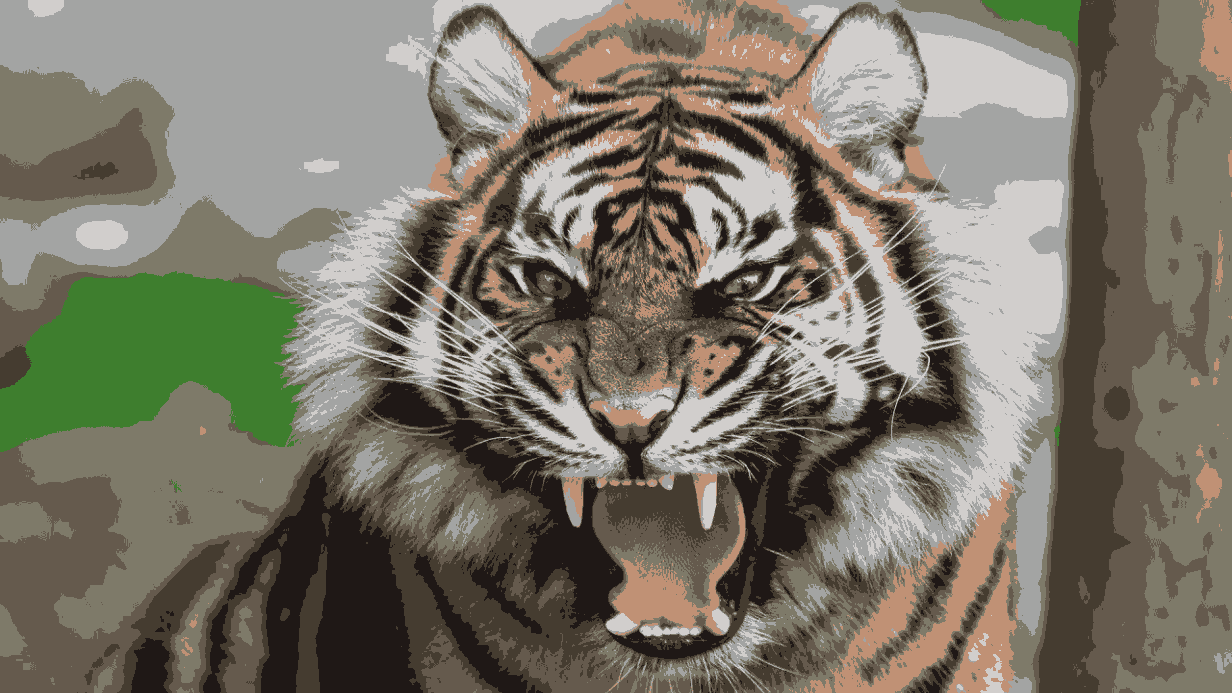
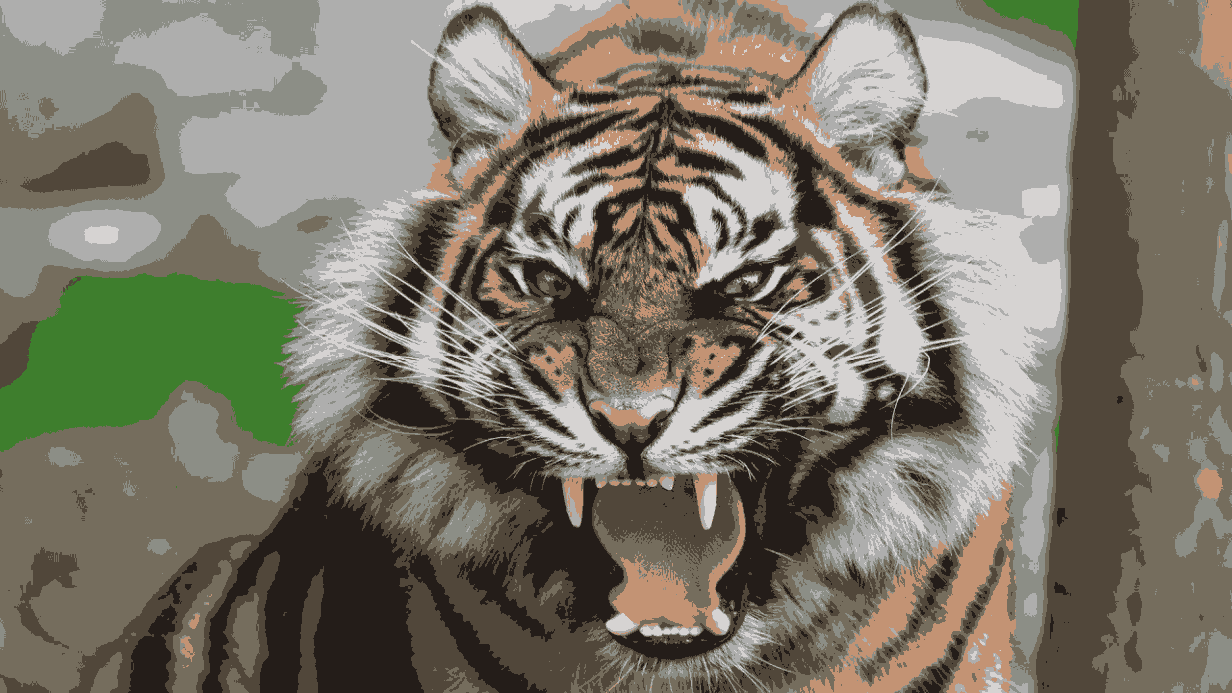
ricostruite

diff --git a/Progetto/KMeans/ricostruzione.py b/Progetto/KMeans/ricostruzione.py
@@ -7,8 +7,8 @@ from pathlib import Path
 path='../ProgettoIot/Progetto/KMeans/'
 dimensioni={}
 
-numCluster=24
-numIter=20
+numCluster=72
+numIter=55
 
 def ricostruzione(cluster,iterazioni):
     srccb=path+str(cluster)+'_cluster/codebook_tiger'+str(iterazioni)+'_iter.npy' # prendo il file con i dati del kmeans i centroidi
